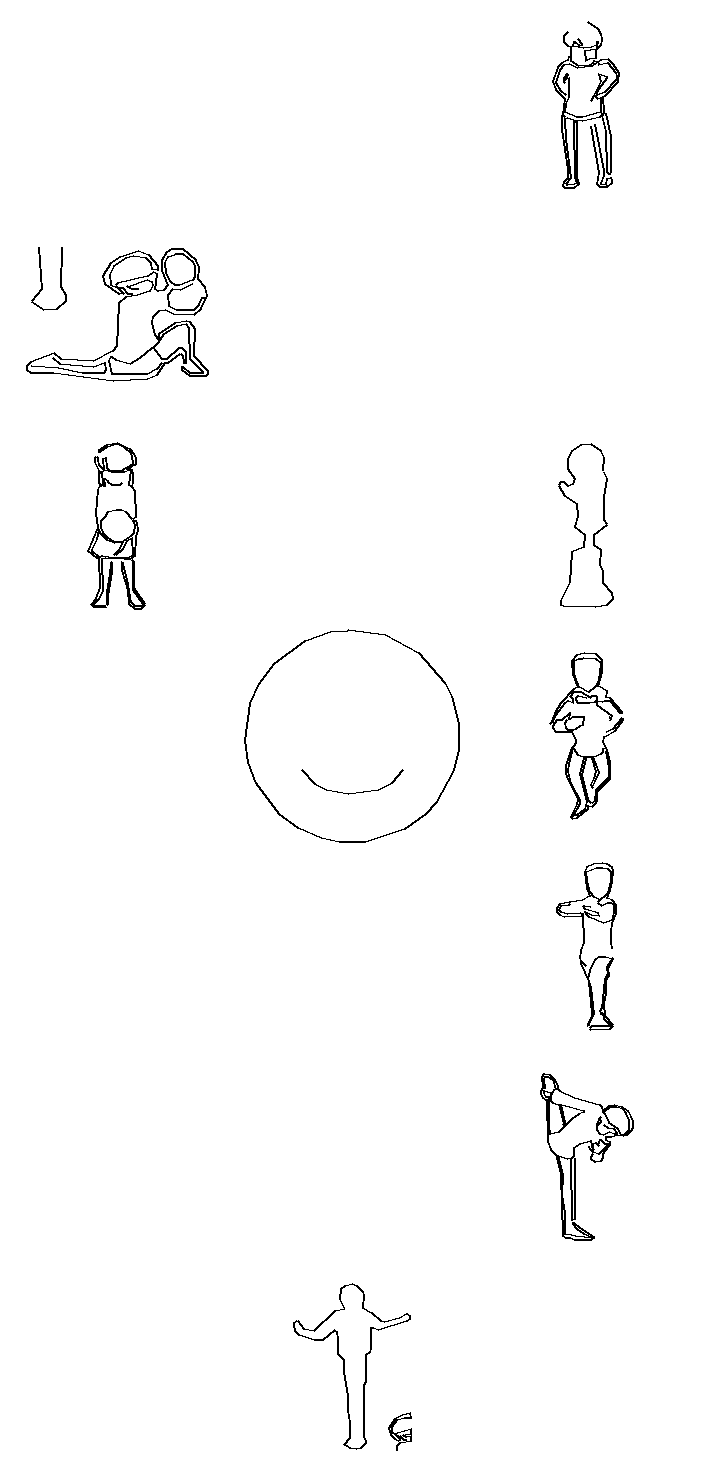
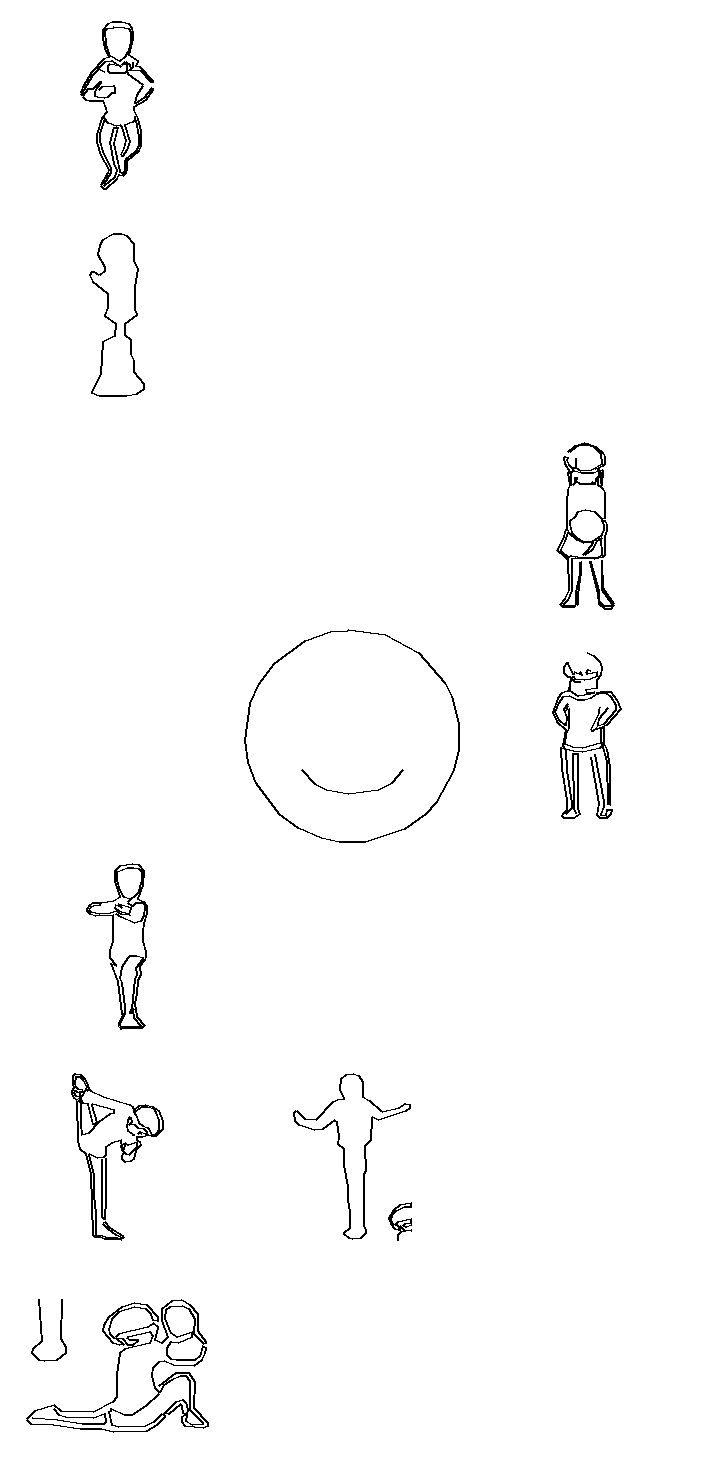
scatter mode 本番実装: スプライト分割→輪郭化→空白散布
「キャラを撒く」 デモを本番化。 /tmp ハック → 再利用可能なモジュール+CLI:
- modules/stroke_scatter.py: split_characters(連結成分) /
  vectorize_characters(canny輪郭) / free_cells / scatter_strokes /
  scatter_companions(高レベルAPI)。 shift と同じ strokes 形式を出力。
- scripts/scatter_companions.py: 本番 CLI。 preset で sprite 生成 (GPU)
  または --sheet で既存シート使用 (GPU不要・再現用)。 disp dir 出力。
- assets/scatter_sheet_lineart_char.png: 再現用スプライトシート。
disp_scatter_demo を本番スクリプトで再生成 (8体散布)。

diff --git a/scripts/scatter_companions.py b/scripts/scatter_companions.py
@@ -1,0 +1,165 @@
+#!/usr/bin/env python3
+"""scatter placement (本番): companion スプライトシートを生成し、
+個々のキャラに分割して入力の周囲の空白に散布する。
+
+shift が「1 体を最大空白へ移動」 なのに対し、 scatter は「複数の小さな
+キャラを入力の周りに撒く」 演出。 lineartLoRA char preset の
+スプライトシート (複数ポーズ) を活かす。
+
+使い方:
+  # スプライトを新規生成して散布 (GPU)
+  ./venv/bin/python -m scripts.scatter_companions \\
+      --input sketch_variations/_inputs/scatter_input.png \\
+      --output sketch_variations/disp_scatter_demo/scatter/v1_seed555 \\
+      --seed 555 --resolution 704x1472
+
+  # 既存スプライトシートを使う (GPU 不要、 再現用)
+  ./venv/bin/python -m scripts.scatter_companions \\
+      --input  sketch_variations/_inputs/scatter_input.png \\
+      --sheet  assets/scatter_sheet_lineart_char.png \\
+      --output sketch_variations/disp_scatter_demo/scatter/v1_seed555 \\
+      --seed 555 --resolution 704x1472
+
+出力 (webapp の disp pattern-2 が拾う構成):
+  30_vectorized_strokes.png   散布合成 (入力 + 周囲キャラ)
+  strokes.json                合成 strokes
+  20_input_strokes.png        入力のみ
+  vec_debug/06_strokes.png    skeleton (Frida 確認用)
+  00_auto_prompt.txt          生成設定メモ
+
+See: docs/20260601_scatter_and_transparent_board.md
+"""
+from __future__ import annotations
+
+import argparse
+import json
+import sys
+from pathlib import Path
+
+_ROOT = Path(__file__).resolve().parent.parent
+if str(_ROOT) not in sys.path:
+    sys.path.insert(0, str(_ROOT))
+
+# scatter 生成のデフォルト prompt: 「複数の小さなダイナミックキャラ」 が
+# 離散して並ぶスプライトシートを狙う (塗りシルエット → 後段で輪郭線化)。
+DEFAULT_SHEET_PROMPT = (
+    "person, manga character, full body, confident dynamic standing pose, "
+    "clean bold outline lineart, single black line on white background, "
+    "no shading, no fill, no hatching, no speed lines"
+)
+DEFAULT_PRESET = "illustrious_v2_lineart_char"
+
+
+def _generate_sheet(input_path: Path, res_wh, seed: int, preset: str,
+                    prompt: str):
+    """preset でスプライトシートを生成して PIL.Image を返す (GPU)。"""
+    from PIL import Image
+    from modules.image_gen import ImageGenerator, MODEL_PRESETS
+
+    cfg = MODEL_PRESETS[preset]
+    full_prompt = prompt
+    if cfg.get("style_hint"):
+        full_prompt = f"{prompt}, {cfg['style_hint']}"
+    guide = Image.open(input_path).convert("RGB")
+    if guide.size != tuple(res_wh):
+        guide = guide.resize(tuple(res_wh), Image.LANCZOS)
+    gen = ImageGenerator.from_preset(preset, resolution=tuple(res_wh),
+                                     verbose=True)
+    gen.load()
+    print(f"[scatter] generating sheet: preset={preset} seed={seed}")
+    return gen.generate(full_prompt, guide, seed=seed)
+
+
+def main() -> int:
+    ap = argparse.ArgumentParser(
+        description=__doc__,
+        formatter_class=argparse.RawDescriptionHelpFormatter)
+    ap.add_argument("--input", type=Path, required=True,
+                    help="入力スケッチ (中央に置かれ、 周囲にキャラを散布)")
+    ap.add_argument("--output", type=Path, required=True,
+                    help="出力 disp dir")
+    ap.add_argument("--sheet", type=Path, default=None,
+                    help="既存スプライトシート png (指定で生成 skip = GPU 不要)")
+    ap.add_argument("--resolution", type=str, default="704x1472",
+                    help="canvas WxH (= ボード縦横比)")
+    ap.add_argument("--seed", type=int, default=555)
+    ap.add_argument("--preset", type=str, default=DEFAULT_PRESET)
+    ap.add_argument("--prompt", type=str, default=DEFAULT_SHEET_PROMPT)
+    ap.add_argument("--cols", type=int, default=3)
+    ap.add_argument("--rows", type=int, default=7)
+    ap.add_argument("--fill", type=float, default=0.8,
+                    help="各セル内でキャラが占める割合 (0-1)")
+    args = ap.parse_args()
+
+    import numpy as np
+    import cv2
+    from PIL import Image
+    from modules.vectorizer import Vectorizer, load_binarize_config, _skeletonize
+    from modules.stroke_render import render_strokes_to_image
+    from modules.blob_detect import detect_blobs, union_bbox
+    from modules.stroke_scatter import scatter_companions
+    from modules.panel_geometry import parse_resolution
+
+    res_wh = parse_resolution(args.resolution) or (704, 1472)
+    CW, CH = res_wh
+    cfg = load_binarize_config()
+
+    # --- 入力: strokes + 占有 bbox ---
+    inp_img = Image.open(args.input).convert("RGB").resize((CW, CH))
+    vec_bin = Vectorizer(**cfg)
+    input_r = vec_bin.vectorize(generated_image=inp_img, user_image=None)
+    input_strokes = input_r.strokes
+    blobs = detect_blobs(Image.fromarray(np.array(inp_img.convert("L"))))
+    input_bbox = union_bbox(blobs)
+    print(f"[scatter] input: {len(input_strokes)} strokes, bbox={input_bbox}")
+
+    # --- スプライトシート (生成 or 既存) ---
+    if args.sheet:
+        sheet = Image.open(args.sheet).convert("RGB")
+        print(f"[scatter] using existing sheet: {args.sheet}")
+    else:
+        sheet = _generate_sheet(args.input, res_wh, args.seed,
+                                args.preset, args.prompt)
+
+    # --- 分割 → 輪郭化 → 散布 ---
+    vec_canny = Vectorizer(gen_line_mode="canny", **cfg)
+    combined, n_placed, n_found, n_cells = scatter_companions(
+        sheet, input_strokes, input_bbox, (CW, CH),
+        cols=args.cols, rows=args.rows, fill=args.fill, seed=args.seed,
+        vectorizer=vec_canny)
+    print(f"[scatter] found {n_found} chars, {n_cells} free cells, "
+          f"placed {n_placed} around input. total strokes={len(combined)}")
+
+    # --- 出力 ---
+    out = args.output
+    (out / "vec_debug").mkdir(parents=True, exist_ok=True)
+    render_strokes_to_image(combined, width=CW, height=CH, line_width=2
+                            ).save(out / "30_vectorized_strokes.png")
+    render_strokes_to_image(input_strokes, width=CW, height=CH, line_width=2
+                            ).save(out / "20_input_strokes.png")
+    (out / "strokes.json").write_text(json.dumps({
+        "image_shape": [CH, CW],
+        "n_strokes": len(combined),
+        "n_points": sum(len(s) for s in combined),
+        "strokes": [[[float(x), float(y)] for x, y in st] for st in combined],
+    }))
+    # skeleton (Frida 確認用)
+    arr = np.array(render_strokes_to_image(
+        combined, width=CW, height=CH, line_width=2).convert("L"))
+    m = (arr < 128).astype(np.uint8)
+    canvas = np.full(arr.shape, 255, np.uint8)
+    if m.sum() > 0:
+        sk = _skeletonize(m).astype(np.uint8)
+        canvas[cv2.dilate(sk, np.ones((2, 2), np.uint8)) > 0] = 0
+    Image.fromarray(canvas).save(out / "vec_debug" / "06_strokes.png")
+    (out / "00_auto_prompt.txt").write_text(
+        f"mode=scatter\nseed={args.seed}\npreset={args.preset}\n"
+        f"resolution={CW}x{CH}\ncols={args.cols} rows={args.rows} "
+        f"fill={args.fill}\nchars_found={n_found} chars_placed={n_placed}\n"
+        f"sheet_prompt={args.prompt}\n")
+    print(f"[scatter] saved → {out}")
+    return 0
+
+
+if __name__ == "__main__":
+    sys.exit(main())

diff --git a/modules/stroke_scatter.py b/modules/stroke_scatter.py
@@ -1,0 +1,130 @@
+"""scatter placement: companion スプライトシートを個々のキャラに分割し、
+入力に被らないよう周囲の空白セルへ散布する。
+
+shift placement (modules/stroke_transform) が「1 体を最大空白へ移動」 なのに
+対し、 scatter は「複数の小さなキャラを入力の周囲に撒く」 演出。
+lineartLoRA char preset のスプライトシート出力 (複数ポーズ) を活かす。
+
+パイプライン:
+  1. split_characters: 塗りシルエットを連結成分で個々のキャラ crop に分割
+  2. vectorize_characters: 各 crop を canny 輪郭で線画化 (塗り→輪郭線)
+  3. free_cells:         入力 bbox と重ならない grid セルを列挙
+  4. scatter_strokes:    各キャラを空きセルに縮小配置
+  → input_strokes + 散布キャラ の合成 strokes を返す
+
+座標は全て canvas pixel (x, y)。 出力 strokes は shift と同じ
+「list of polyline (list of (x, y))」 形式なので、 既存の
+render_strokes_to_image / strokes.json 出力にそのまま流せる。
+
+See: docs/20260601_scatter_and_transparent_board.md
+"""
+from __future__ import annotations
+
+import random
+from typing import List, Tuple
+
+import cv2
+import numpy as np
+from PIL import Image
+
+Stroke = List[Tuple[float, float]]
+
+
+def split_characters(sheet_img: Image.Image, *, dark_thresh: int = 110,
+                     min_area: int = 1500, min_wh: int = 40,
+                     dilate: int = 9) -> list:
+    """塗りシルエットのスプライトシートを連結成分で分割。
+
+    Returns: [(crop_gray (np.uint8), w, h), ...] (面積の大きい順)
+    """
+    gray = np.array(sheet_img.convert("L"))
+    mask = (gray < dark_thresh).astype(np.uint8)
+    # 各キャラ内の細切れ (手足の隙間等) を 1 成分にまとめるため dilate
+    md = cv2.dilate(mask, np.ones((dilate, dilate), np.uint8))
+    n, _lab, stats, _cent = cv2.connectedComponentsWithStats(md)
+    chars = []
+    for i in range(1, n):
+        x, y, w, h, area = stats[i]
+        if area < min_area or w < min_wh or h < min_wh:
+            continue
+        chars.append((gray[y:y + h, x:x + w], int(w), int(h), int(area)))
+    chars.sort(key=lambda c: c[3], reverse=True)
+    return [(c[0], c[1], c[2]) for c in chars]
+
+
+def vectorize_characters(chars: list, vectorizer) -> list:
+    """各キャラ crop を vectorizer で線画化。
+
+    塗りシルエットなので canny (輪郭) mode の vectorizer を渡すこと。
+    Returns: [(strokes (crop-local 座標), w, h), ...]
+    """
+    out = []
+    for crop, w, h in chars:
+        gi = Image.fromarray(crop).convert("RGB")
+        r = vectorizer.vectorize(generated_image=gi, user_image=None)
+        if r.n_strokes == 0:
+            continue
+        out.append((r.strokes, w, h))
+    return out
+
+
+def free_cells(canvas_wh: Tuple[int, int], input_bbox: Tuple[int, int, int, int],
+               *, cols: int = 3, rows: int = 7) -> list:
+    """grid セルのうち入力 bbox (x, y, w, h) と重ならないものを返す。"""
+    cw_total, ch_total = canvas_wh
+    ix, iy, iw, ih = input_bbox
+    cw, ch = cw_total / cols, ch_total / rows
+    cells = []
+    for rr in range(rows):
+        for cc in range(cols):
+            x0, y0 = cc * cw, rr * ch
+            # 入力 bbox と少しでも重なるセルは除外 (元絵を侵食しない)
+            overlaps = not (x0 + cw <= ix or x0 >= ix + iw
+                            or y0 + ch <= iy or y0 >= iy + ih)
+            if overlaps:
+                continue
+            cells.append((x0, y0, cw, ch))
+    return cells
+
+
+def scatter_strokes(char_strokes: list, cells: list, *,
+                    fill: float = 0.8, seed: int = 7) -> List[Stroke]:
+    """各キャラ strokes を空きセルへ縮小配置 (アスペクト維持)。"""
+    rng = random.Random(seed)
+    cells = list(cells)
+    rng.shuffle(cells)
+    placed: List[Stroke] = []
+    for k, (strokes, w, h) in enumerate(char_strokes):
+        if k >= len(cells):
+            break
+        cx0, cy0, ccw, cch = cells[k]
+        s = min(ccw / max(w, 1), cch / max(h, 1)) * fill
+        ox = cx0 + (ccw - w * s) / 2.0
+        oy = cy0 + (cch - h * s) / 2.0
+        for st in strokes:
+            placed.append([(x * s + ox, y * s + oy) for (x, y) in st])
+    return placed
+
+
+def scatter_companions(sheet_img: Image.Image,
+                       input_strokes: List[Stroke],
+                       input_bbox: Tuple[int, int, int, int],
+                       canvas_wh: Tuple[int, int],
+                       *, cols: int = 3, rows: int = 7,
+                       fill: float = 0.8, seed: int = 7,
+                       vectorizer=None) -> tuple:
+    """高レベル API: sheet を分割→輪郭化→散布し、
+    (合成 strokes, n_chars_placed, n_chars_found, n_cells) を返す。
+
+    vectorizer 未指定なら canny mode で生成 (塗りシルエット→輪郭線)。
+    """
+    if vectorizer is None:
+        from modules.vectorizer import Vectorizer, load_binarize_config
+        vectorizer = Vectorizer(gen_line_mode="canny", **load_binarize_config())
+    chars = split_characters(sheet_img)
+    char_strokes = vectorize_characters(chars, vectorizer)
+    cells = free_cells(canvas_wh, input_bbox, cols=cols, rows=rows)
+    scattered = scatter_strokes(char_strokes, cells, fill=fill, seed=seed)
+    n_placed = min(len(char_strokes), len(cells))
+    combined = list(input_strokes) + scattered
+    return combined, n_placed, len(char_strokes), len(cells)
